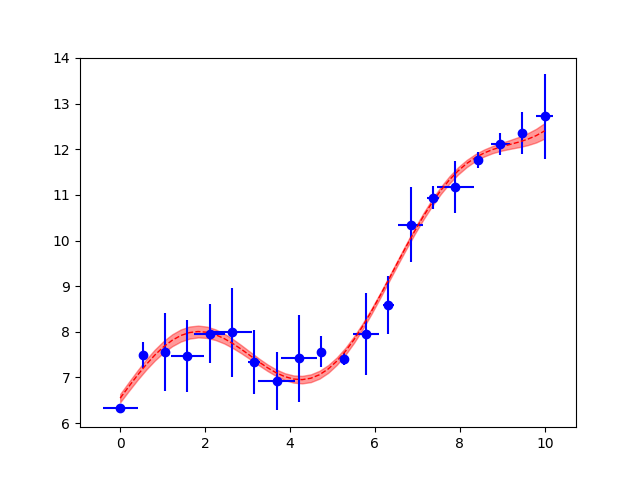
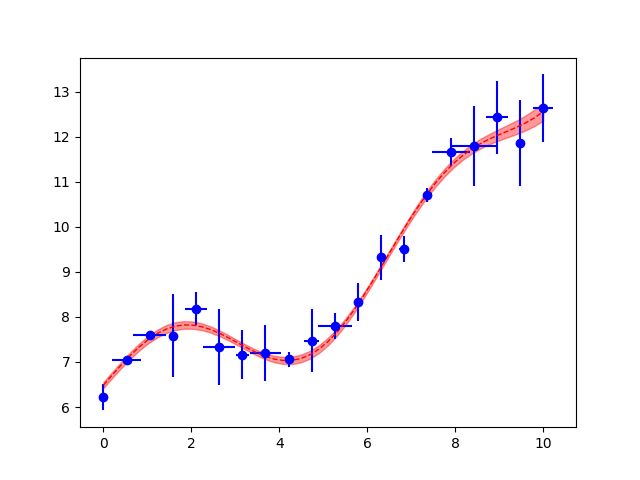
pred nonlin

diff --git a/stat_analysis/nlfit.py b/stat_analysis/nlfit.py
@@ -14,6 +14,8 @@ class nlfit():
     self.dy = np.array(dy)
     self.t = None
     self.p_values = None
+    self.pred = None
+    self.dpred = None
 
   def fit(self):
     model = odr.Model(self.func)
@@ -35,7 +37,42 @@ class nlfit():
     print('dof      = {}'.format(self.dof))
     print('cov      = ')
     print('{}'.format(self.fitout.cov_beta*self.fitout.res_var))
+    if self.pred and self.dpred: 
+      print(' k       = {}'.format(self.pred))
+      print('dk       = {}'.format(self.dpred))    
     print('='*n + '='*len(string) + '='*n)
+
+  def predict(self,x,savefile=None,xlabel=None,ylabel=None,Nb=5000):
+
+    self.plot(savefile=None,xlabel=xlabel,ylabel=ylabel,Nb=Nb)
+
+    extrapolation = False
+    if x<min(self.x):
+      px = np.linspace(x,min(self.x))
+      extrapolation=True
+    elif x>max(self.x):
+      px = np.linspace(max(self.x),x)
+      extrapolation=True
+    
+    if extrapolation:
+      ff_ext = np.zeros((len(self.bs),len(px)))
+      for i,mm in enumerate(self.bs): 
+          ff_ext[i,:] = self.func(mm,px)
+      f_ext = ff_ext[0,:]
+      sf_ext = np.std(ff_ext[1:,:],axis=0)
+      plt.fill_between(px,f_ext-sf_ext,f_ext+sf_ext,alpha=0.4,color='r')
+      plt.plot(px,f_ext,'r--',linewidth=1)
+
+    ff = np.zeros((len(self.bs),1))  
+    for i,mm in enumerate(self.bs): 
+      ff[i,:] = self.func(mm,x)
+    self.dpred = np.std(ff[1:,:],axis=0)
+    self.pred = ff[0,:]
+    plt.errorbar(x=x,y=self.pred,yerr=self.dpred,fmt='gs')
+    if savefile!=None:
+      plt.savefig(fname=savefile)
+  
+    return {'pred':self.pred, 'dpred':self.dpred}
 
   def plot(self,savefile=None,xlabel=None,ylabel=None,Nb=5000):
     if self.dy.any() and self.dx.any():
@@ -48,9 +85,9 @@ class nlfit():
       plt.errorbar(x=self.x,y=self.y,fmt='bo')
 
     px = np.linspace(min(self.x),max(self.x))
-    bs = synt_bootstrap(k=self.fitout.beta,Nb=Nb,cov=self.fitout.cov_beta*self.fitout.res_var).sample()
+    self.bs = synt_bootstrap(k=self.fitout.beta,Nb=Nb,cov=self.fitout.cov_beta*self.fitout.res_var).sample()
     ff = np.zeros((Nb+1,len(px)))
-    for i,mm in enumerate(bs): 
+    for i,mm in enumerate(self.bs): 
         ff[i,:] = self.func(mm,px)
     f  = ff[0,:]
     
@@ -77,5 +114,7 @@ if __name__=='__main__':
 
     ff = nlfit(func=f,x=x,y=y,dx=dx,dy=dy,k0=[0.,0.,0.])
     ff.fit()
+    ff.plot(savefile='../fig/nonlin.png')
+    plt.clf()
+    ff.predict(x=10.5,xlabel='x',ylabel='y',savefile='../fig/nonlin_pred.png')
     ff.log()
-    ff.plot(savefile='nonlin.png')

diff --git a/stat_analysis/pfit.py b/stat_analysis/pfit.py
@@ -95,11 +95,12 @@ class pfit():
       for ix in range(len(px)):
         for n in range(1,self.ndeg+1-self.nconst+1):
           f[ix]+=(self.k[n-1])*px[ix]**(self.ndeg+1-n)
-      plt.plot(px,f,'r--',linewidth=1)
       plt.fill_between(px,f-err,f+err,alpha=0.4,color='r')
-      if savefile: 
-        plt.savefig(fname=savefile)
-      return {'pred':self.pred,'dpred':self.dpred}
+      plt.plot(px,f,'r--',linewidth=1)
+
+    if savefile: 
+      plt.savefig(fname=savefile)
+    return {'pred':self.pred,'dpred':self.dpred}
 
   def plot(self,savefile=None,xlabel=None,ylabel=None):
     if self.dy.any():
@@ -140,5 +141,5 @@ if __name__=='__main__':
     ff.fit()
     ff.plot(xlabel='x',ylabel='y',savefile='../fig/quad.png')
     plt.clf()
-    ff.predict(x=11,xlabel='x',ylabel='y',savefile='../fig/quad_pred.png')
+    ff.predict(x=13.5,xlabel='x',ylabel='y',savefile='../fig/quad_pred.png')
     ff.log()

diff --git a/README.md b/README.md
@@ -34,14 +34,43 @@ kconst=[2] # [Optional] a list of coefficients, starting from the highest to the
 ~~~
 
 * .log(): fit parameters with uncertainties, reduced chi2, and covariance matrix are displayed. 
+~~~
+==================== Fit Log ====================
+ k       = [4.98881479 1.89398851 6.6610509 ]
+dk       = [ 1.25188083  9.53787807 10.14975134]
+t        = [3.98505565 0.19857546 0.65627725]
+p-values = [0.00528968 0.84823908 0.53261758]
+chi2/dof = 0.0007074425784127696
+dof      = 7
+cov      = 
+[[  1.56720562 -11.82348128  11.5408929 ]
+ [-11.82348128  90.971118   -91.18678554]
+ [ 11.5408929  -91.18678554 103.01745234]]
+pred   = 631.1415143152262
+dpred  = 58.04015781775017
+~~~
 
 * .plot(): plot the data and fit with error band. Optional parameters are xlabel,ylabel and savefile. if nor specified the plot will not be saved. 
 
 ![alt text](https://github.com/pretidav/stat_analysis/raw/main/fig/quad.png)
 
-* .predict(): plot the data and fit with error band and the predicted point x. Optional parameters are xlabel,ylabel and savefile. if nor specified the plot will not be saved. 
+* .predict(): plot the data and fit with error band and the predicted point x. Optional parameters are xlabel,ylabel and savefile. if not specified the plot will not be saved. 
 
 ![alt text](https://github.com/pretidav/stat_analysis/raw/main/fig/quad_pred.png)
+
+## example usage:
+~~~ 
+x = np.linspace(0,10,num=10)
+y = 5*x**2+ 2*x + 5 + 2*np.random.rand(len(x))
+dy = 100*np.random.rand(len(x))
+
+ff = pfit(x=x,y=y,dy=dy,ndeg=2)
+ff.fit()
+ff.plot(xlabel='x',ylabel='y',savefile='../fig/quad.png')
+plt.clf()
+ff.predict(x=11,xlabel='x',ylabel='y',savefile='../fig/quad_pred.png')
+ff.log()
+~~~
 
 # nlfit
 
@@ -83,10 +112,46 @@ import numpy as np
 
 
 * .log(): fit parameters with uncertainties, R^2, and covariance matrix are displayed. 
-
+~~~
+==================== Fit Log ====================
+ k       = [0.20230562 0.91546002 5.48977518]
+dk       = [0.0030456  0.06418912 0.06665966]
+t        = [66.42561823 14.26191952 82.35528149]
+p-values = [0.00000000e+00 6.87618851e-11 0.00000000e+00]
+R**2     = 5.540221043876636
+dof      = 17
+cov      = 
+[[ 9.27565727e-06 -4.12808332e-05 -1.41792933e-04]
+ [-4.12808332e-05  4.12024270e-03 -6.44158588e-05]
+ [-1.41792933e-04 -6.44158588e-05  4.44351047e-03]]
+ k       = [13.05072629]
+dk       = [0.24797352]
+=================================================
+~~~
 * .plot(): plot the data and fit with error band. Optional parameters are xlabel,ylabel and savefile. if nor specified the plot will not be saved. 
 
 ![alt text](https://github.com/pretidav/stat_analysis/raw/main/fig/nonlin.png)
+
+* .predict():  plot the data and fit with error band and the predicted point x. Optional parameters are xlabel,ylabel and savefile. if not specified the plot will not be saved. 
+
+![alt text](https://github.com/pretidav/stat_analysis/raw/main/fig/nonlin_pred.png)
+## example usage: 
+~~~
+    def f(B, x):
+        return np.exp(B[0]*x) + B[1]*np.sin(x) + B[2] 
+
+    x = np.linspace(0,10,num=20)
+    y = f([0.2,1,5],x) + 1*np.random.rand(len(x))
+    dy = 1*np.random.rand(len(x))
+    dx = 0.5*np.random.rand(len(x))
+
+    ff = nlfit(func=f,x=x,y=y,dx=dx,dy=dy,k0=[0.,0.,0.])
+    ff.fit()
+    ff.plot(savefile='../fig/nonlin.png')
+    plt.clf()
+    ff.predict(x=10.5,xlabel='x',ylabel='y',savefile='../fig/nonlin_pred.png')
+    ff.log()
+~~~
 
 # bootstrap 
 This routine allows for two kind of bootstrap resampling methods. 
